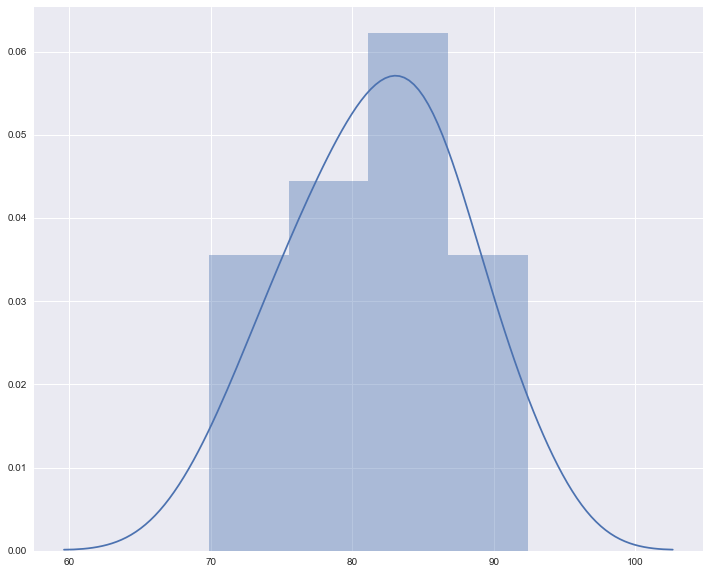
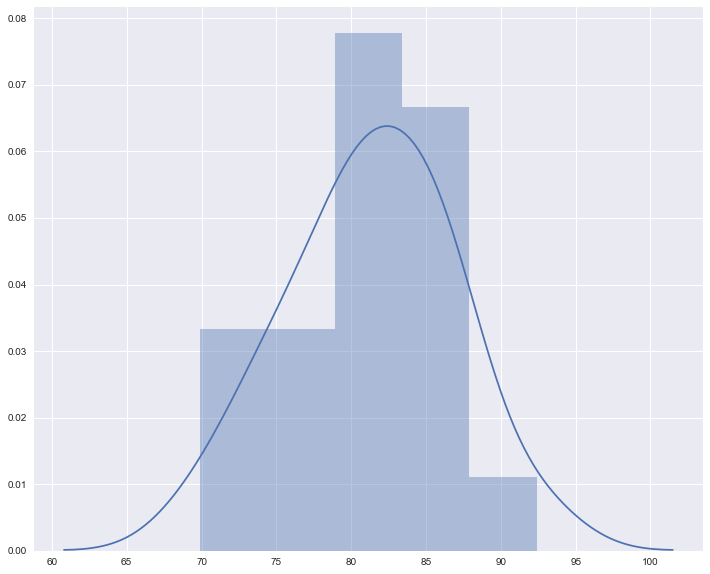
uploading solutions

diff --git a/README.md b/README.md
@@ -10,6 +10,7 @@ You will be able to:
 
 * Compare the t-test and resulting p-value with Effect Size and describe both statistics and their applications
 
+
 ## Hypothesis testing using Frequentist methods
 
 In frequentist hypothesis testing, we construct a test statistic from the measured data, and use the value of that statistic to decide whether to accept or reject the hypothesis. 
@@ -145,29 +146,33 @@ Identify the pieces of information you’ll need to calculate the test statistic
 
 ```python
 # Read the sales data into NumPy array. Alternatively, you can also read this data into a Pandas dataframe
-sample = None
+sample = np.array([122.09, 100.64, 125.77, 120.32, 118.25,  96.47, 111.4 ,  80.66,
+       110.77, 111.14, 102.9 , 114.54,  88.09,  98.59,  87.07, 110.43,
+       101.9 , 123.89,  97.03, 116.23, 108.3 , 112.82, 119.57, 131.38,
+       128.39])
 
 # Population mean (μ)
-mu = None
+mu = 100 
 
 # Sample mean (x̄) using NumPy mean()
-x_bar= None
+x_bar= sample.mean()
 
 # Sample Stadrad Deviation (sigma) using Numpy
-sigma = None
+sigma = np.std(sample)
 
 # Sample size (n)
-n = None
+n = len(sample)
 
 # Degrees of Freedom
-df =None
+df = n-1
 
 # Difference in sample mean 
-diff =None
+diff = x_bar - mu
 
 
 # Print the findings
-
+print ('The sample contains', n, 'observations, having a mean of', x_bar, "and a standard deviation (sigma) = ", sigma, 
+       ", with", df, 'degrees of freedom. The difference between sample and population means is:', diff)
 
 # The sample contains 25 observations, having a mean of 109.5456 
 # and a standard deviation (sigma) =  13.069276668584225 , 
@@ -186,13 +191,15 @@ Let's also try drawing a distribution from example values to check for normality
 
 
 ```python
-# Plot the sample distribution
+sns.set(color_codes=True)
+sns.set(rc={'figure.figsize':(12,10)})
+sns.distplot(sample)
 ```
 
 
 
 
-    <matplotlib.axes._subplots.AxesSubplot at 0x1a1b4de4a8>
+    <matplotlib.axes._subplots.AxesSubplot at 0x20d242a6d68>
 
 
 
@@ -218,10 +225,17 @@ Where $S$ stands for standard deviation, which we already defined as 'sigma'.
 
 ```python
 # Calculate Sigma
-t = None
+t = (x_bar -  mu)/(sigma/np.sqrt(n))
 t
 # 3.6519236075802097
 ```
+
+
+
+
+    3.6519236075802097
+
+
 
 > Note that a positive t value indicates that the sample mean is greater than population mean and vice versa. This means that sample's average sales performnace post-training is greater than average population sales performance. 
 
@@ -232,29 +246,29 @@ Lets try visualizing the calculated t-statistic with a PDF.
 
 ```python
 # generate points on the x axis between -10 and 10:
-xs = None
+xs = np.linspace(-5, 5, 200)
+
 # use stats.t.pdf to get values on the probability density function for the t-distribution
 # the second argument is the degrees of freedom
-ys = None
+ys = stats.t.pdf(xs, df, 0, 1)
+
 # initialize a matplotlib "figure"
-fig = None
+fig = plt.figure(figsize=(8,5))
 
 # get the current "axis" out of the figure
-ax = None
+ax = fig.gca()
 
 # plot the lines using matplotlib's plot function:
+ax.plot(xs, ys, linewidth=3, color='darkblue')
 
 # plot a vertical line for our measured difference in rates t-statistic
+ax.axvline(t, color='red', linestyle='--', lw=5)
 
+plt.show()
 ```
 
 
-```python
-
-```
-
-
-![png](index_files/index_23_0.png)
+![png](index_files/index_22_0.png)
 
 
 ### Step 5: Find the critical t value. 
@@ -285,10 +299,17 @@ Ley's calculate the critical t using this formula and confirm our earlier findin
 
 ```python
 # Calculate critical t value
-t_crit = None
+t_crit = np.round(stats.t.ppf(1 - 0.05, df=24),3)
 t_crit
 # 1.711
 ```
+
+
+
+
+    1.711
+
+
 
 As we can see , the critical value returned from the function (rounded off 2 two decimal places) is same as one we found the in t-distribution table i.e. 1.711. 
 
@@ -319,18 +340,28 @@ We use a one-tailed t-test as we are looking for an increase in the sales perfor
 
 
 ```python
-results = None     
+results = stats.ttest_1samp(a= sample, popmean= mu)         
+print ("The t-value for sample is", round(results[0], 2), "and the p-value is", np.round((results[1]), 4))
 #  Print results
 # The t-value for sample is 3.58 and the p-value is 0.0015
 ```
 
-We can use our null and alternate hypothesis defined earlier to state the results from our findings using if-else conditions to reject Ho/Ha. 
+    The t-value for sample is 3.58 and the p-value is 0.0015
+
+
+We can use our null and alternate hypothesis defined earlier to state the results from our findings. 
 
 
 ```python
-# Null hypothesis rejected. Results are statistically significant with 
-# t-value = 3.58 and p-value = 0.0015
+if (results[0]>t_crit) and (results[1]<0.05):
+    print ("Null hypothesis rejected. Results are statistically significant with t-value =", 
+           round(results[0], 2), "and p-value =", np.round((results[1]), 4))
+else:
+    print ("Null hypothesis is Accepted")
 ```
+
+    Null hypothesis rejected. Results are statistically significant with t-value = 3.58 and p-value = 0.0015
+
 
 ## Effect Size Calculation for one-sample t-test
 
@@ -347,10 +378,17 @@ Lets calculate the Cohen'd for our sample using the formula above:
 
 ```python
 # Calculate Cohen's d and round off 
-d = None
+d = np.round(((diff) / sigma),2)
 d
 # 0.73
 ```
+
+
+
+
+    0.73
+
+
 
 
 Following cohen's interpretation, we can confidently say that the sample mean shifts considerably towards positive side as compared to the population means, resulting in a large effect size. This also help us conclude that training has a a clear effect on the sales performance of the sales team, when compared to pre-sales performance. 
@@ -365,22 +403,35 @@ Create a function in python `one_sample_ttest(sample, popmean, alpha)` that will
 def one_sample_ttest(sample, popmean, alpha):
 
     # Visualize sample distribution for normality 
-
+    sns.set(color_codes=True)
+    sns.set(rc={'figure.figsize':(12,10)})
+    sns.distplot(sample)
     
-    # Population mean 
-
+    # Populaqtion mean 
+    mu = popmean
+    
     # Sample mean (x̄) using NumPy mean()
+    x_bar= sample.mean()
 
     # Sample Stadrad Deviation (sigma) using Numpy
+    sigma = np.std(sample)
     
     # Degrees of freedom
+    df = len(sample) - 1
     
     #Calculate the critical t-value
+    t_crit = stats.t.ppf(1 - alpha, df=df)
     
-    #Calculate the t-value and p-value      
+    #Calculate the t-value and p-value
+    results = stats.ttest_1samp(a= sample, popmean= mu)         
     
-    #return results
-    return None
+    if (results[0]>t_crit) and (results[1]<alpha):
+        print ("Null hypothesis rejected. Results are statistically significant with t-value =", 
+                round(results[0], 2), "critical t-value =", t_crit, "and p-value =", np.round((results[1]), 10))
+    else:
+        print ("Null hypothesis is True with t-value =", 
+                round(results[0], 2), ", critical t-value =", t_crit, "and p-value =", np.round((results[1]), 10))
+    
 ```
 
 ### Exercise 2:
@@ -398,32 +449,43 @@ The mean score of the class before the test is 65. The teacher thinks that the o
 1. Test to see if the sample mean is significantly different from 65 at the .05 level. Report the t and p values.
 2. The researcher realizes that she accidentally recorded the score that should have been 80.9 as 90.9. Are these corrected scores significantly different from 65 at the .05 level?
 
-### Solution 1:
+### Solution:
 
 
 ```python
-
+sample = np.array([84.0, 92.4, 74.3, 79.4, 86.7, 75.3, 90.9, 86.1, 81.0, 85.1, 
+      78.7, 73.5, 86.9, 87.4, 82.7, 81.9, 69.9, 77.2, 79.3, 83.3]
+)
+sample = sample
+popmean = 65
+alpha = 0.001
+one_sample_ttest(sample, popmean, alpha)
 ```
 
     Null hypothesis rejected. Results are statistically significant with t-value = 12.69 critical t-value = 3.579400148163749 and p-value = 1e-10
 
 
 
-![png](index_files/index_40_1.png)
+![png](index_files/index_39_1.png)
 
-
-### Solution 2:
 
 
 ```python
-
+# With corrected values
+sample = np.array([84.0, 92.4, 74.3, 79.4, 86.7, 75.3, 80.9, 86.1, 81.0, 85.1, 
+      78.7, 73.5, 86.9, 87.4, 82.7, 81.9, 69.9, 77.2, 79.3, 83.3]
+)
+sample = sample
+popmean = 65
+alpha = 0.05
+one_sample_ttest(sample, popmean, alpha)
 ```
 
     Null hypothesis rejected. Results are statistically significant with t-value = 13.2 critical t-value = 1.729132811521367 and p-value = 1e-10
 
 
 
-![png](index_files/index_42_1.png)
+![png](index_files/index_40_1.png)
 
 
 ## Summary
